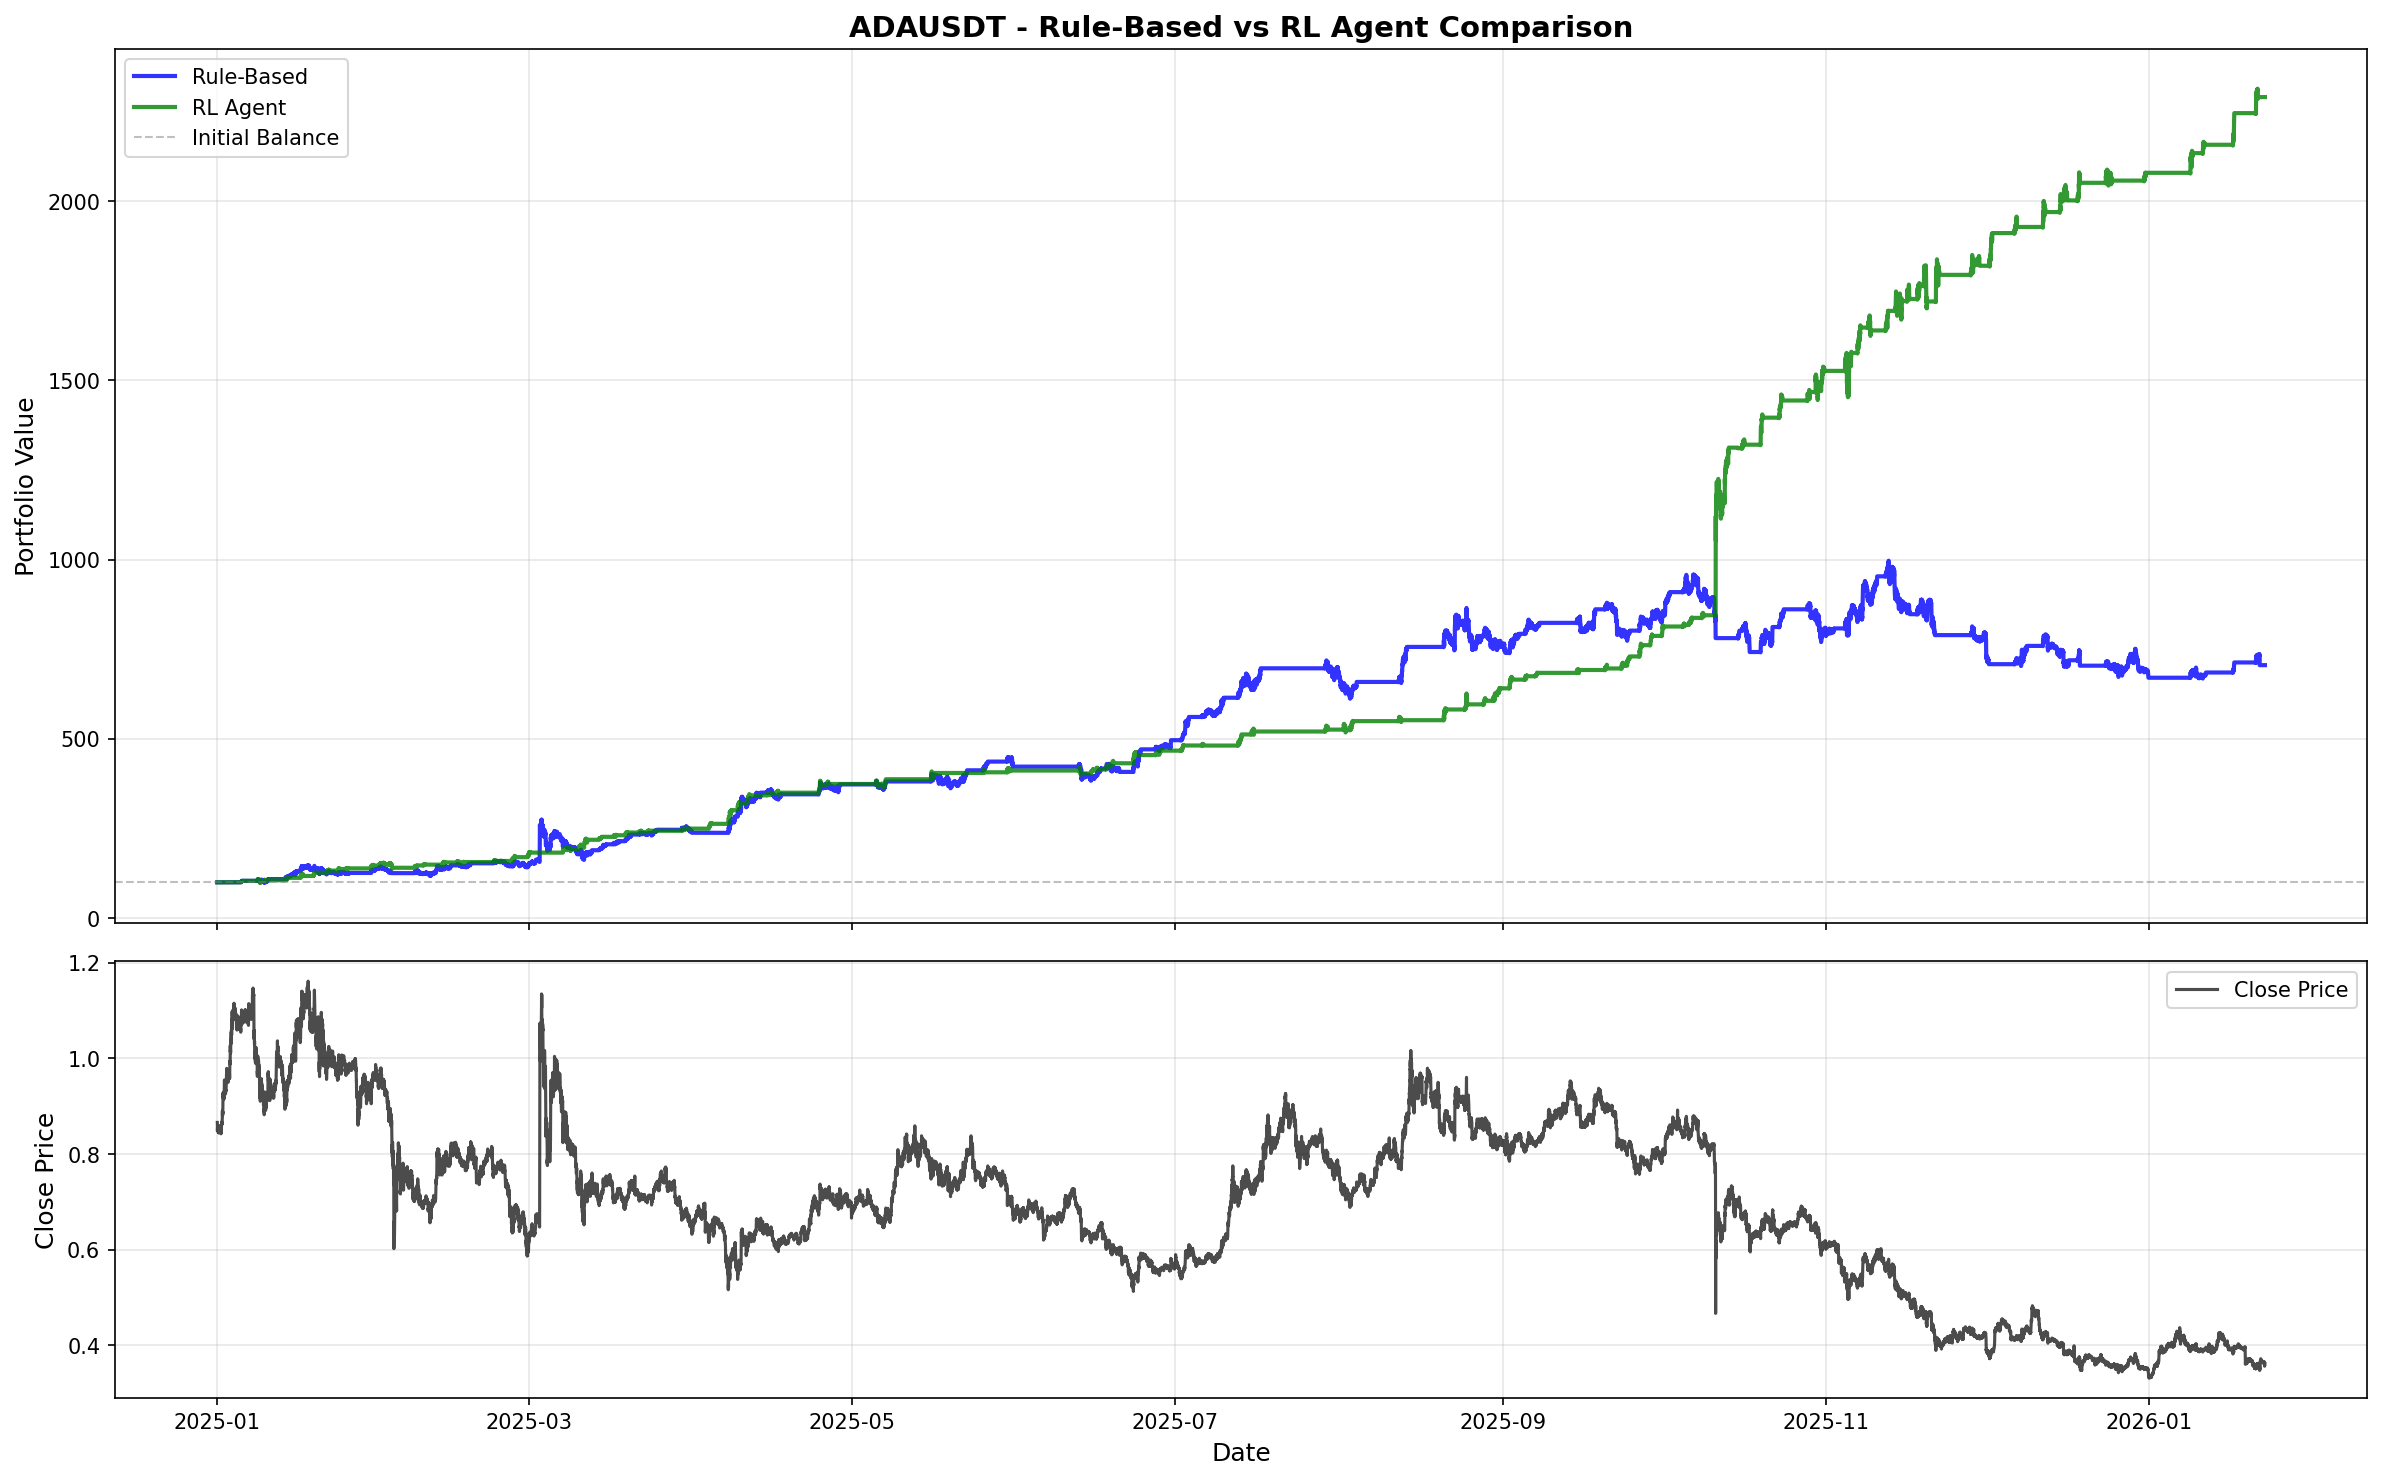
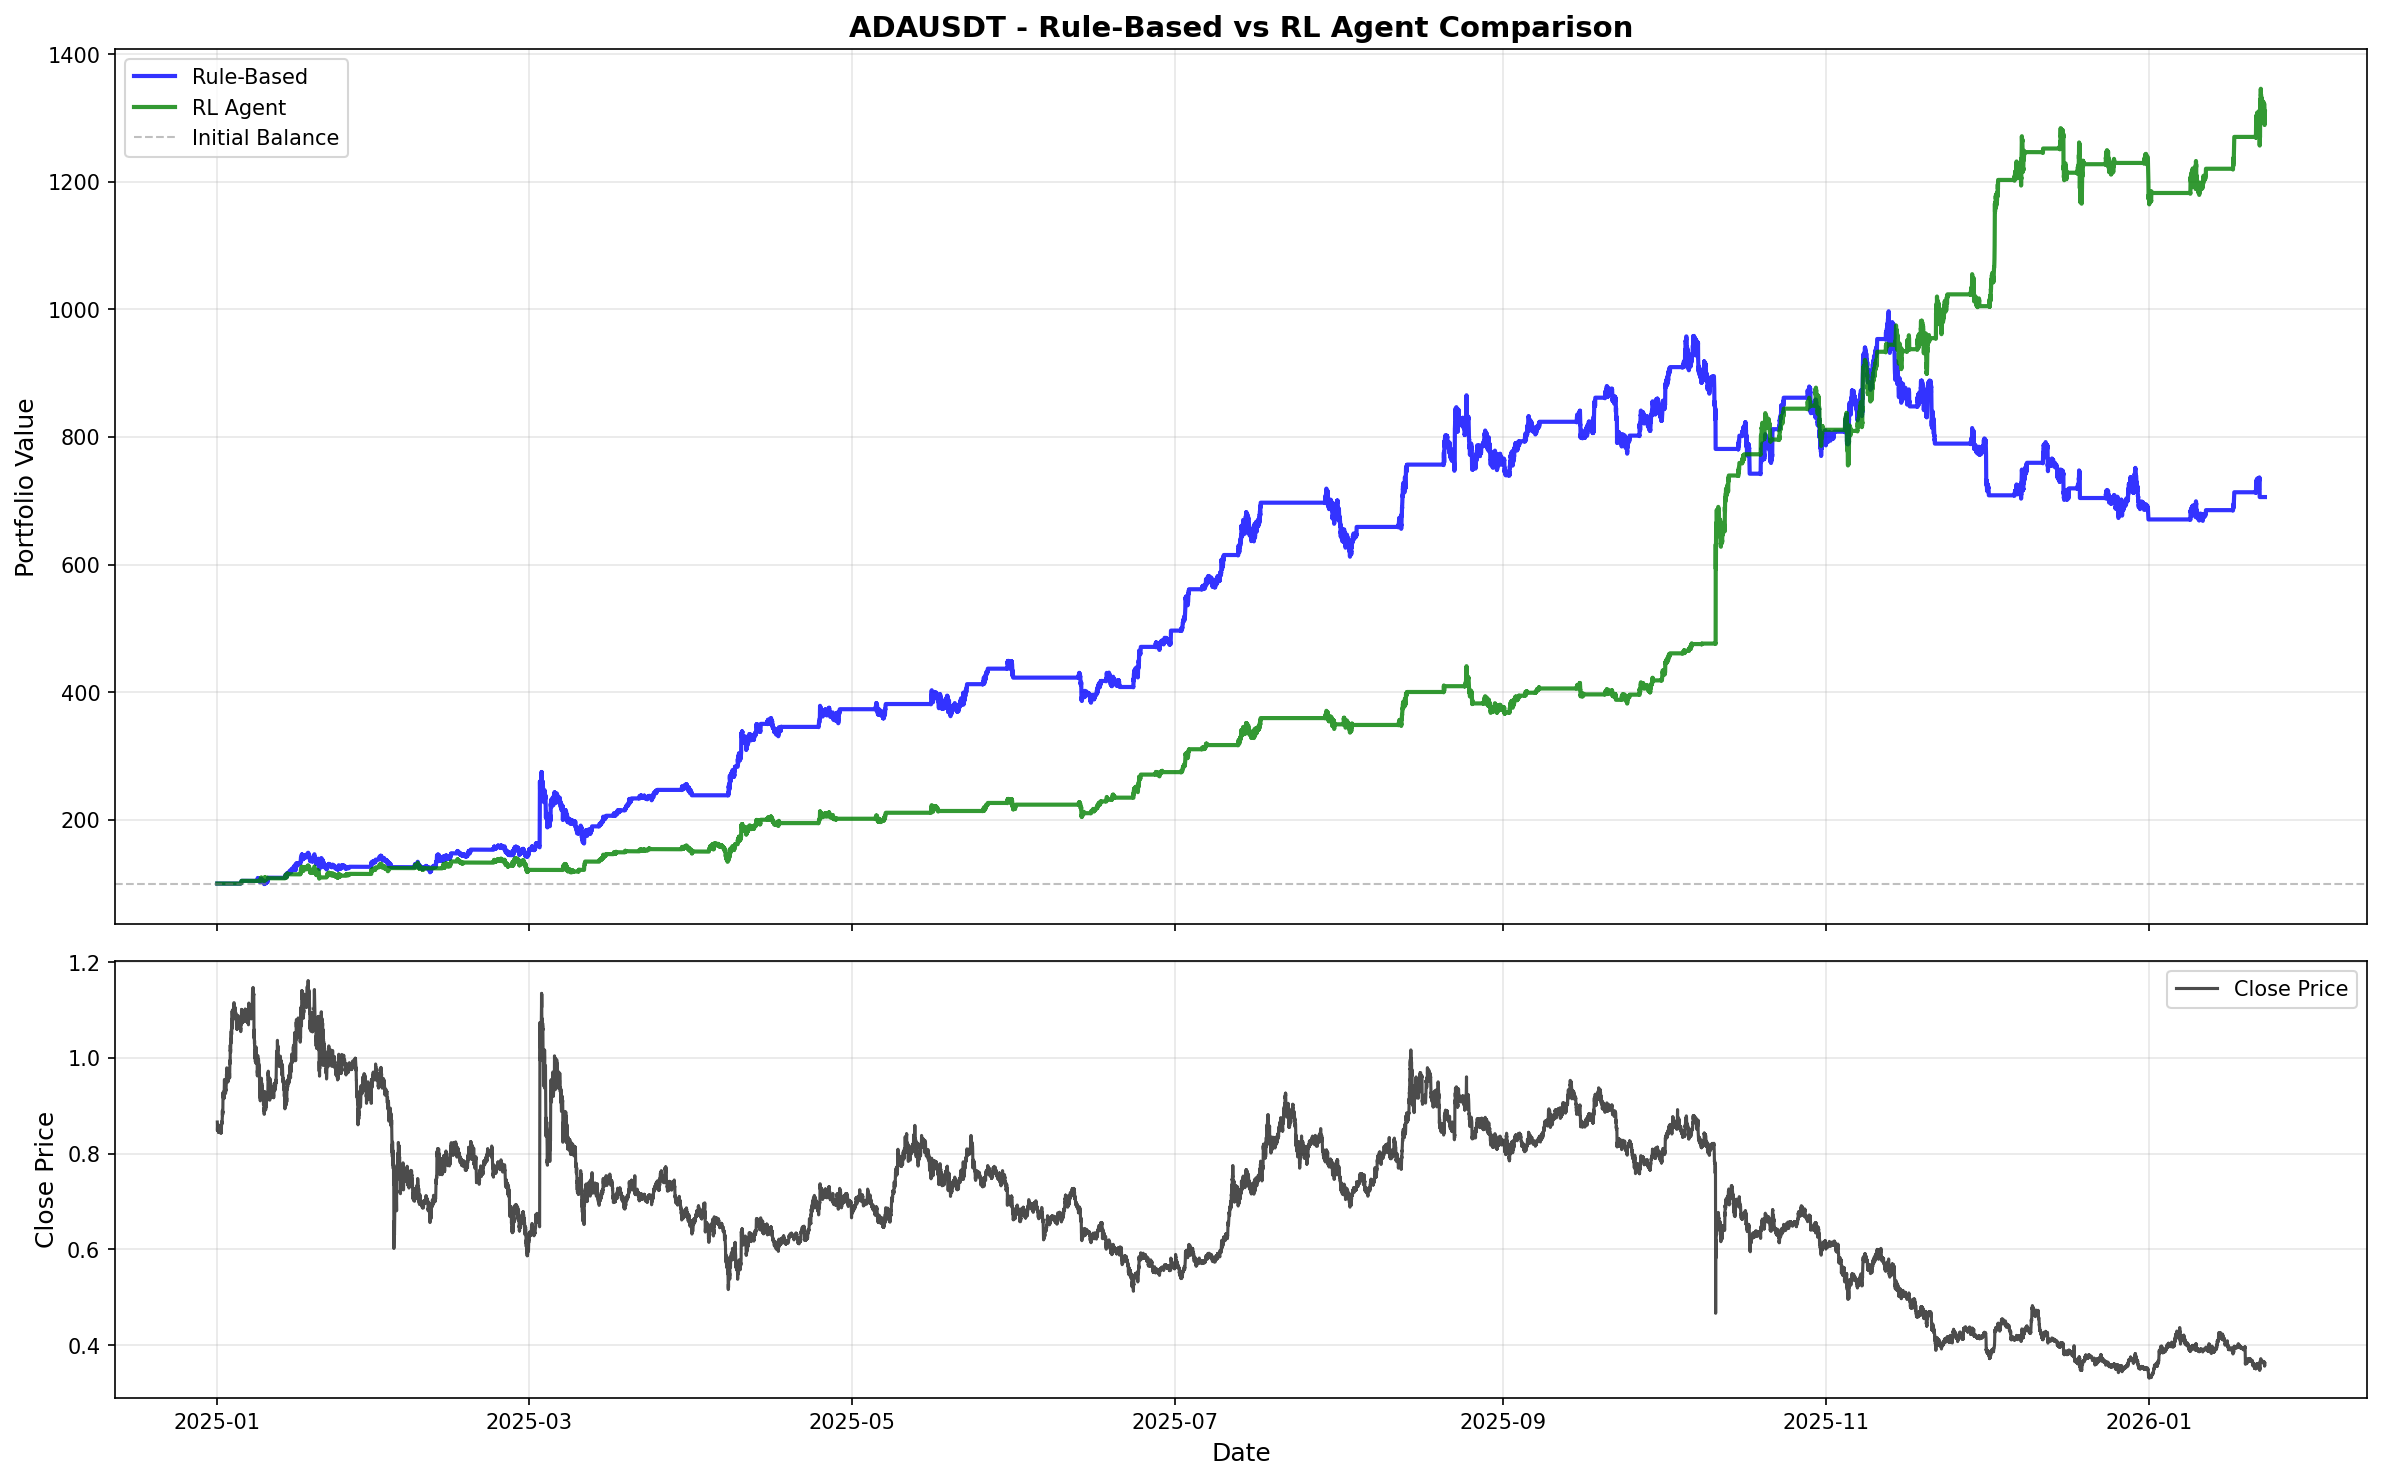
revert reward func

diff --git a/rl_risk_env.py b/rl_risk_env.py
@@ -305,6 +305,7 @@ class RiskManagementEnv(gym.Env):
         - Positive returns get positive rewards
         - Negative returns get negative rewards (penalties)
         - Reward is proportional to the return magnitude
+        - Keep-going bonus: reward for holding (not closing too soon); penalty for very early close
         """
         current_price = float(self.price_window.iloc[self.current_idx])
         price_change_pct = (current_price - self.entry_price) / self.entry_price
@@ -332,6 +333,21 @@ class RiskManagementEnv(gym.Env):
         # Use a reasonable scale factor to provide meaningful signal
         scale_factor = 10.0  # Multiply return by this factor
         reward = position_return * scale_factor
+
+        # ========== KEEP GOING BONUS (discourage closing too soon) ==========
+        if not is_closing:
+            # Reward holding: small bonus per step so agent prefers to keep going
+            # Reduce bonus when in large loss so we don't reward holding sinking positions
+            if position_return > -0.02:
+                reward += 0.08  # Strong bonus for holding when not in big loss
+            elif position_return > -0.05:
+                reward += 0.03  # Smaller bonus when slightly negative
+            # No bonus when position_return <= -0.05 (large loss)
+        else:
+            # Penalty for closing very early (encourage giving the trade time to develop)
+            if periods_held < 96: 
+                early_close_penalty = (96 - periods_held) * 0.15
+                reward -= early_close_penalty
         
         # Clip reward to prevent extreme values that cause training instability
         # Set reasonable bounds based on typical return range
@@ -351,6 +367,7 @@ class RiskManagementEnv(gym.Env):
         3. Win rate: Higher reward for profitable exits
         4. Annualized return: Reward higher returns per time period
         5. Drawdown minimization: Penalty for drawdowns
+        6. Keep going: Reward for holding (not closing too soon); penalty for early close
         """
         current_price = float(self.price_window.iloc[self.current_idx])
         price_change_pct = (current_price - self.entry_price) / self.entry_price
@@ -455,28 +472,35 @@ class RiskManagementEnv(gym.Env):
         drawdown_weight = 1.0  # Reduced from 10.0 to prevent high value loss
         reward -= self.max_drawdown * drawdown_weight
         
-        # ========== TIME-BASED OPTIMIZATION ==========
-        # Balance between holding for profits vs. efficient time usage
+        # ========== TIME-BASED OPTIMIZATION (keep going vs close too soon) ==========
+        # Reward keeping the position open; penalize closing too soon
         if is_closing:
-            # Prevent immediate closure bug
-            if periods_held < 3:
-                early_close_penalty = (3 - periods_held) * 0.2  # Reduced from 2.0
+            # Penalty for closing too early (encourage giving the trade time to develop)
+            if periods_held < 96:
+                early_close_penalty = (96 - periods_held) * 0.25  # Stronger penalty for very early close
+                reward -= early_close_penalty
+            elif periods_held < 10 and position_return > -0.01:
+                # Small penalty for closing a flat/slightly profitable position very quickly
+                early_close_penalty = 0.1
                 reward -= early_close_penalty
         else:
-            # Holding action: encourage holding profitable positions, penalize holding losses
+            # Holding action: reward for keeping going instead of closing too soon
+            hold_step_bonus = 0.0
             if periods_held < 3:
-                # Prevent immediate closure
-                reward += 0.03
+                # Strong bonus to prevent immediate closure
+                hold_step_bonus = 0.08
             elif position_return > 0.01:  # Profitable position
                 # Reward holding profitable positions (scaled by profit size)
-                if periods_held < 30:
-                    # More reward for larger unrealized profits
-                    holding_bonus = position_return * 3.0  # Reward proportional to profit
-                    reward += holding_bonus
-            elif position_return < -0.05:  # Large loss
+                hold_step_bonus = 0.06 + position_return * 3.0  # Base + proportional to profit
+            elif position_return > -0.03:  # Flat or small loss - still reward holding (give trade time)
+                hold_step_bonus = 0.05  # Encourage not closing at first small dip
+            elif position_return > -0.06:  # Moderate loss
+                hold_step_bonus = 0.02  # Small bonus (might recover)
+            # position_return <= -0.06: no hold bonus (avoid rewarding holding large losses)
+            reward += hold_step_bonus
+            if position_return < -0.05 and periods_held > 10:
                 # Penalty for holding large losses too long
-                if periods_held > 10:
-                    reward -= abs(position_return) * 0.3
+                reward -= abs(position_return) * 0.3
         
         # ========== ACTION-SPECIFIC GUIDANCE ==========
         if action == 1:  # Close (take profit)

diff --git a/train_rl_agent.py b/train_rl_agent.py
@@ -78,7 +78,7 @@ VALUE_LAYERS = [256, 256]   # Value network hidden layers
 ACTIVATION_FN = 'tanh'  # Activation function: 'tanh', 'relu', or 'elu'
 CHECKPOINT_FREQ = 10000  # Save checkpoint every N steps
 EVAL_FREQ = 5000  # Evaluate every N steps
-EVAL_EPISODES = 10  # Number of episodes for evaluation
+EVAL_EPISODES = 1000  # Number of episodes for evaluation
 
 # Early stopping configuration
 ENABLE_EARLY_STOPPING = False  # Enable early stopping
@@ -107,7 +107,7 @@ EVAL_START_DATE = "2025-01-01"   # Start date for evaluation (None = use VAL dat
 EVAL_END_DATE = "2026-01-24"              # End date for evaluation (None = end of data)
 
 # Technical indicator settings for entry signal generation
-USE_TECHNICAL_SIGNALS = False  # Use technical signals for entry points (if False, random entry)
+USE_TECHNICAL_SIGNALS = True  # Use technical signals for entry points (if False, random entry)
 MACD_FAST = 12
 MACD_SLOW = 26
 MACD_SIGNAL = 9
